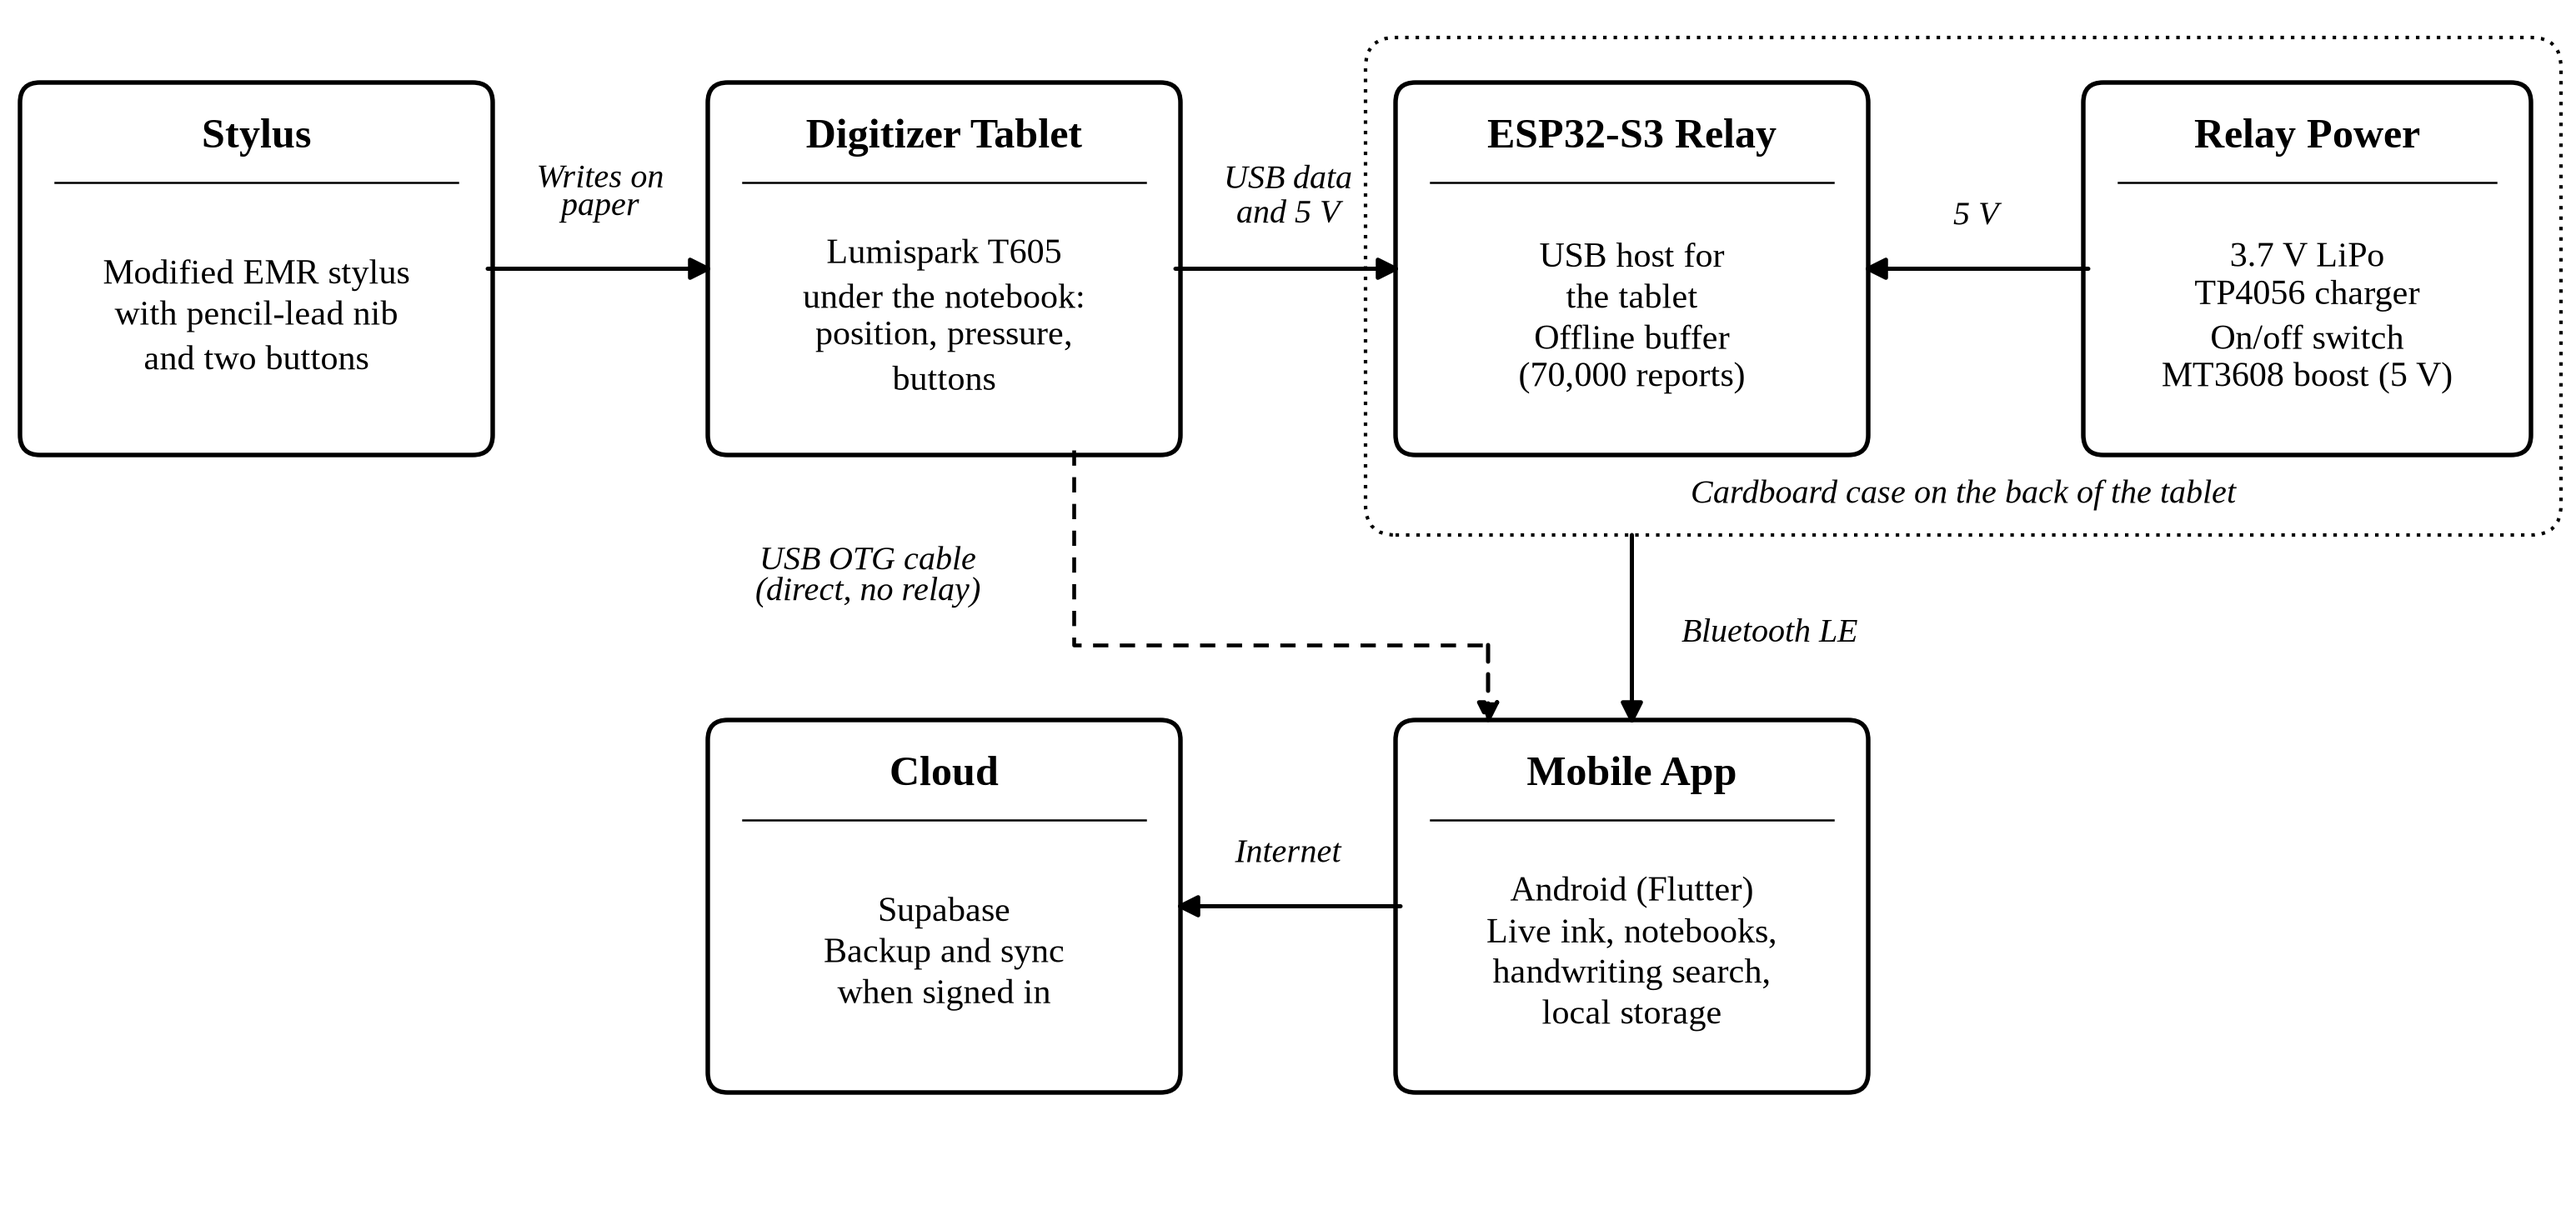
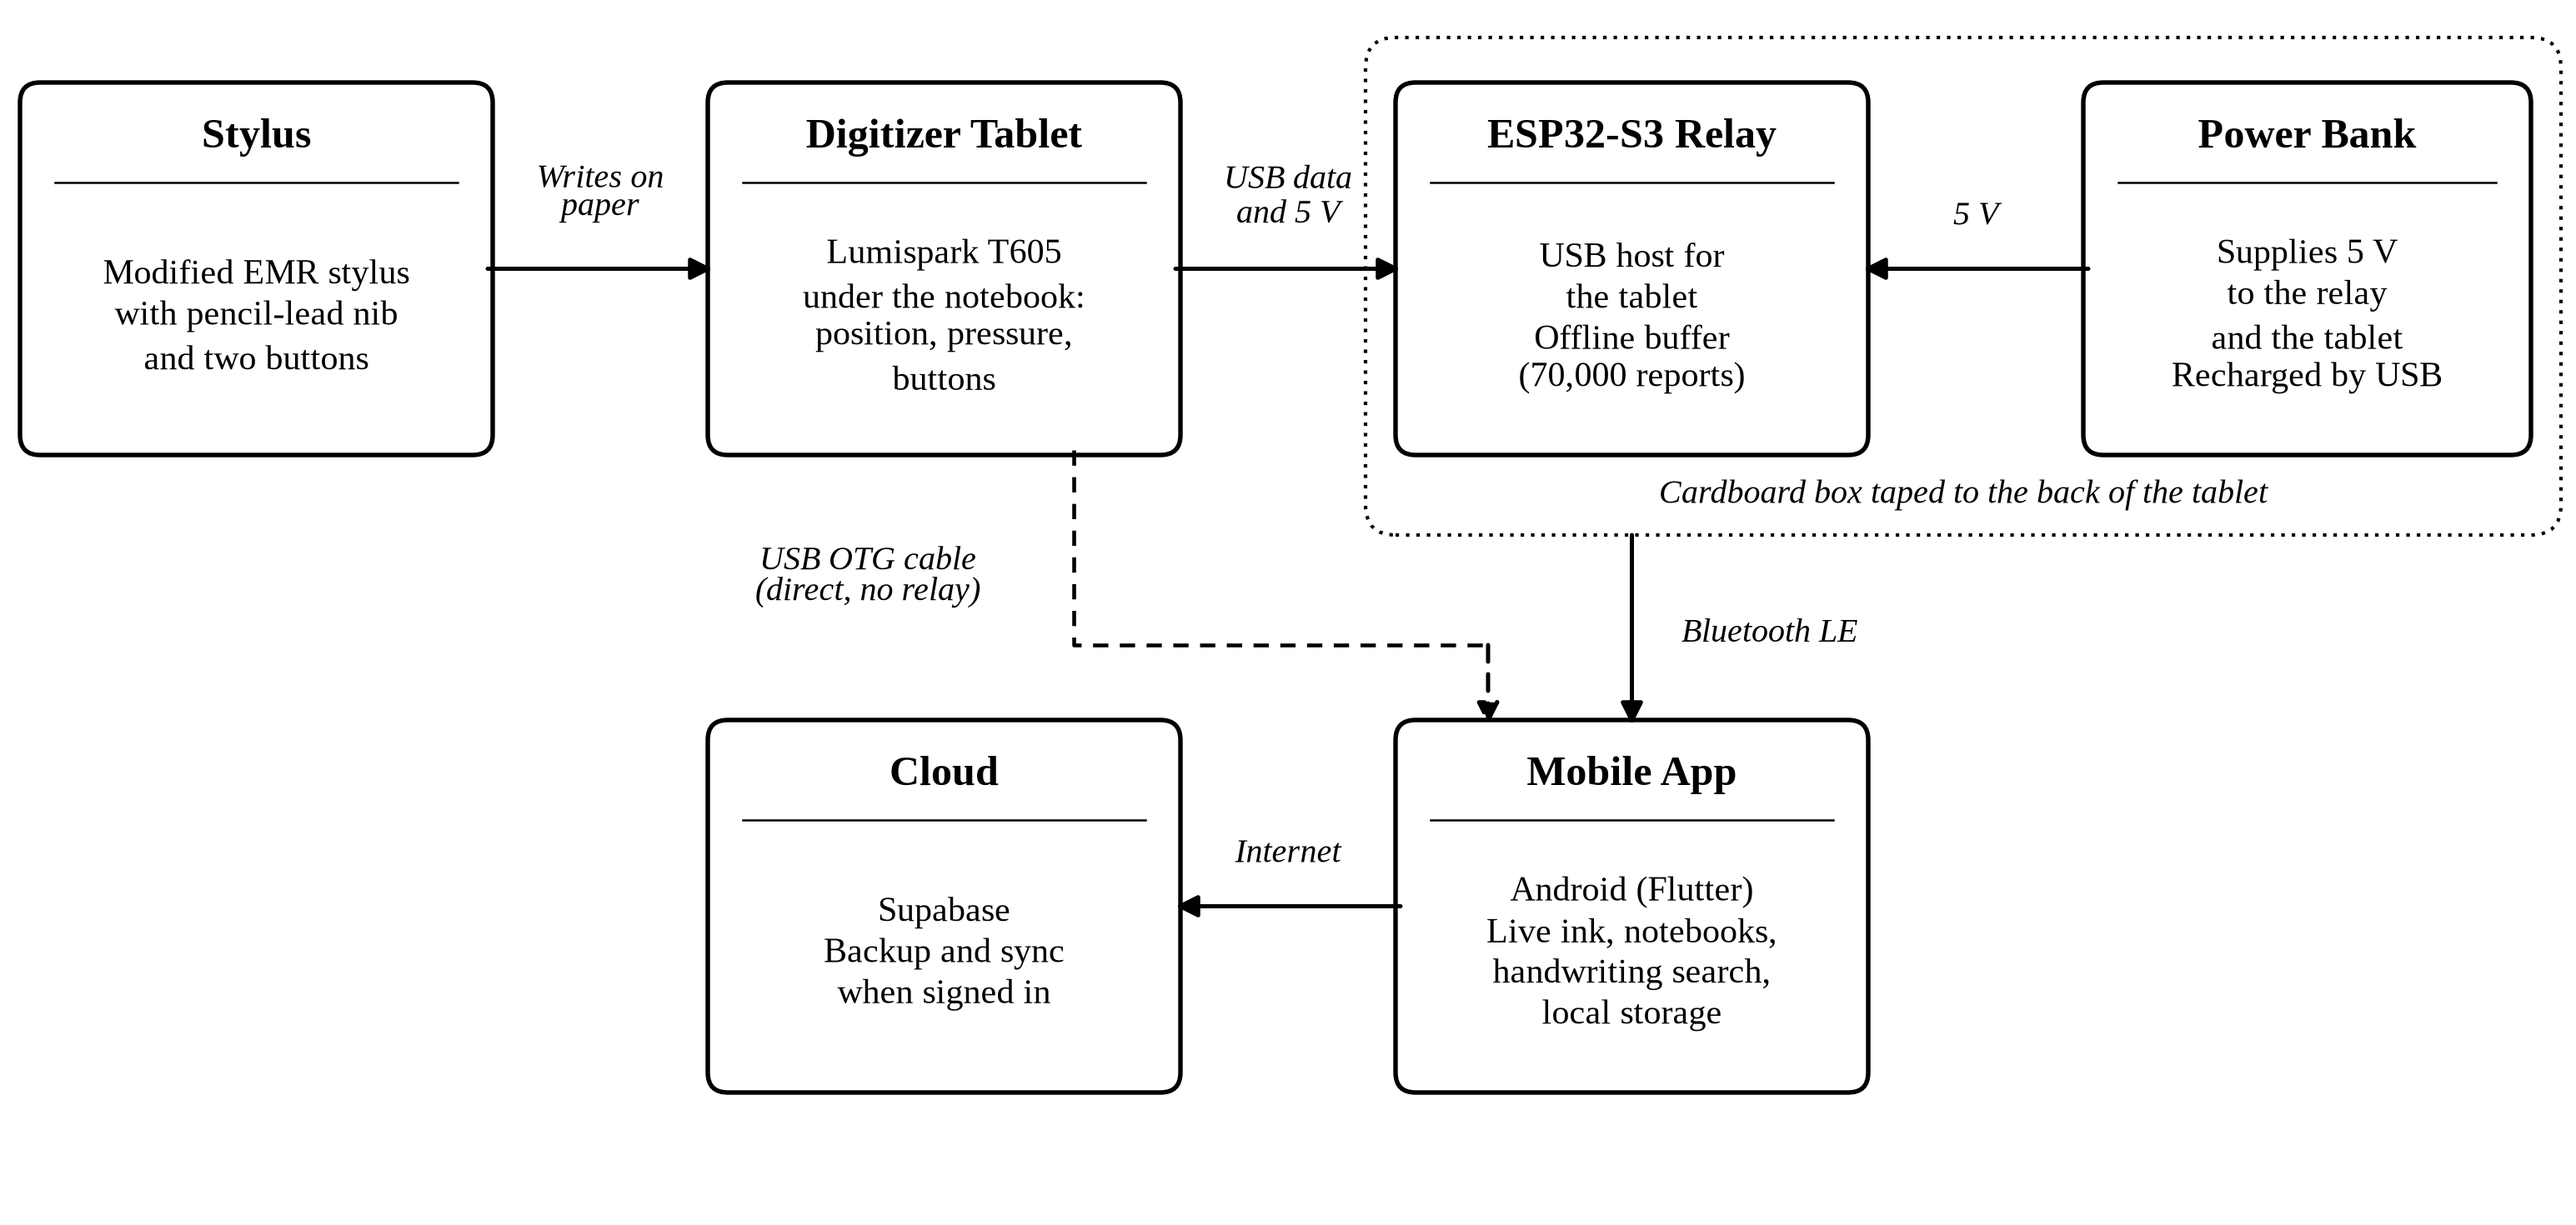
Docs: Figure 1 shows the power bank and the taped cardboard box
Claude-Session: https://claude.ai/code/session_01BuLTUnBS81NMH8DuzdRxha

Changed region(s): [[0.8388, 0.1837, 0.9631, 0.3367], [0.6524, 0.398, 0.8699, 0.4286], [0.8388, 0.0918, 0.932, 0.1224]]

diff --git a/docs/figures/figure1_system_architecture.py b/docs/figures/figure1_system_architecture.py
@@ -42,11 +42,11 @@ box(X[1], R2, "Cloud", "Supabase\nBackup and sync\nwhen signed in")
 
 # Power, beside the relay, both inside the cardboard case.
 PX, PW = X[2] + BW + GAP, 1.75
-box(PX, R1, "Relay Power", "3.7 V LiPo\nTP4056 charger\nOn/off switch\nMT3608 boost (5 V)", w=PW)
+box(PX, R1, "Power Bank", "Supplies 5 V\nto the relay\nand the tablet\nRecharged by USB", w=PW)
 ax.add_patch(FancyBboxPatch((X[2] - 0.12, R1 - 0.32), PX + PW - X[2] + 0.24, BH + 0.5,
              boxstyle="round,pad=0.02,rounding_size=0.12", fc="none", ec="black", lw=1.0,
              linestyle=(0, (1, 2))))
-ax.text(X[2] + (PX + PW - X[2]) / 2, R1 - 0.18, "Cardboard case on the back of the tablet",
+ax.text(X[2] + (PX + PW - X[2]) / 2, R1 - 0.18, "Cardboard box taped to the back of the tablet",
         ha="center", va="center", fontsize=9.5, style="italic")
 
 mid1, mid2 = R1 + BH / 2, R2 + BH / 2
